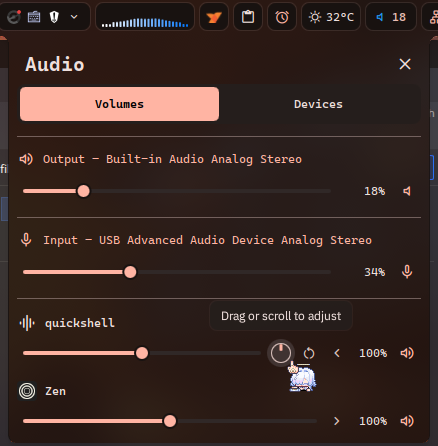
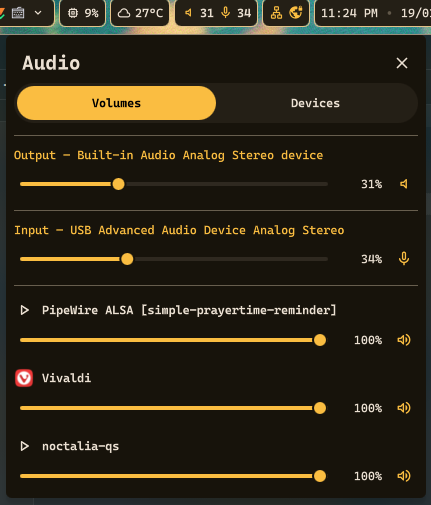
feat(SystemMonitorPlus): add disk partition usage monitoring
Adds diskPartitionUsage resource that fetches mount data from dgop disk --json
and tracks usage percentage for a selected partition.

Settings:
- New "Disk" tab with partition selector dropdown
- Mount point options populated from dgop disk init
- Default thresholds at 80% warning / 90% danger

Widget:
- Displays disk usage percentage on pill
- Popout shows all mount points with used/available/percent
- Periodic 5s refresh via dgop process

diff --git a/SystemMonitorPlus/SystemMonitorPlusWidget.qml b/SystemMonitorPlus/SystemMonitorPlusWidget.qml
@@ -1,5 +1,6 @@
 import QtQuick
 import Quickshell
+import Quickshell.Io
 import qs.Common
 import qs.Modules.Plugins
 import qs.Services
@@ -11,20 +12,26 @@ PluginComponent {
     pluginId: "systemMonitorPlus"
     layerNamespacePlugin: "system-monitor-plus"
 
-    readonly property var allResourceKeys: ["cpuUsage", "cpuTemp", "ramUsage", "gpuTemp"]
+    readonly property var allResourceKeys: ["cpuUsage", "cpuTemp", "ramUsage", "gpuTemp", "diskPartitionUsage"]
     readonly property var enabledResources: visibleResources()
     readonly property string primaryResource: enabledResources.length > 0 ? enabledResources[0] : "cpuUsage"
     readonly property string resourceSignature: JSON.stringify(enabledResources) + "|" + gpuSubscriptionSignature()
 
     property var _trackedModules: []
     property var _trackedGpuPciIds: []
+    property var _parsedDiskMounts: []
+    property real _parsedDiskMountsPercent: -1
 
     pillRightClickAction: rightClickSettingsEnabled() ? (() => {
         PopoutService.openSettingsWithTab("plugins");
     }) : null
 
     pillClickAction: () => {
-        openProcessList();
+        if (primaryResource === "diskPartitionUsage") {
+            pluginPopout.toggle();
+        } else {
+            openProcessList();
+        }
     }
 
     function pluginValue(key, fallback) {
@@ -86,6 +93,19 @@ PluginComponent {
                 "maxValue": 100,
                 "warning": 65,
                 "danger": 80,
+                "precision": 0
+            };
+        case "diskPartitionUsage":
+            return {
+                "label": "Disk Usage",
+                "icon": "sd_storage",
+                "module": "disk",
+                "sortKey": "cpu",
+                "placeholder": "--%",
+                "unit": "%",
+                "maxValue": 100,
+                "warning": 80,
+                "danger": 90,
                 "precision": 0
             };
         case "cpuUsage":
@@ -158,6 +178,8 @@ PluginComponent {
             return DgopService.memoryUsage;
         case "gpuTemp":
             return gpu ? (gpu.temperature || 0) : 0;
+        case "diskPartitionUsage":
+            return _parsedDiskMountsPercent >= 0 ? _parsedDiskMountsPercent : 0;
         case "cpuUsage":
         default:
             return DgopService.cpuUsage;
@@ -167,6 +189,8 @@ PluginComponent {
     function hasValue(resourceKey) {
         if (resourceKey === "gpuTemp")
             return resolveSelectedGpu(resourceKey) !== null;
+        if (resourceKey === "diskPartitionUsage")
+            return _parsedDiskMountsPercent >= 0;
         const value = currentValue(resourceKey);
         return value !== undefined && value !== null;
     }
@@ -228,6 +252,8 @@ PluginComponent {
             return formatRamValue(verticalCompact);
         if (!hasValue(resourceKey))
             return meta.placeholder;
+        if (resourceKey === "diskPartitionUsage")
+            return Number(_parsedDiskMountsPercent).toFixed(meta.precision) + meta.unit;
         const value = currentValue(resourceKey);
         if (resourceKey === "cpuTemp" || resourceKey === "gpuTemp")
             return Math.round(value).toString() + meta.unit;
@@ -437,12 +463,95 @@ PluginComponent {
 
     onResourceSignatureChanged: Qt.callLater(syncDgopSubscriptions)
 
+    Process {
+        id: diskFetchProcess
+        command: ["dgop", "disk", "--json"]
+        stdout: SplitParser {
+            onRead: function(data) {
+                try {
+                    const parsed = JSON.parse(data.trim());
+                    const mounts = parsed.mounts || [];
+                    if (Array.isArray(mounts)) {
+                        root._parsedDiskMounts = mounts;
+                        const mountPoint = String(root.pluginValue("diskPartitionUsageMount", "/"));
+                        const match = mounts.find(m => m.mount === mountPoint);
+                        root._parsedDiskMountsPercent = match ? parseInt(match.percent, 10) : -1;
+                    }
+                } catch (e) {
+                    root._parsedDiskMounts = [];
+                    root._parsedDiskMountsPercent = -1;
+                }
+            }
+        }
+    }
+
+    Timer {
+        id: diskFetchTimer
+        interval: 5000
+        running: root.enabledResources.indexOf("diskPartitionUsage") > -1
+        repeat: true
+        onTriggered: diskFetchProcess.running = true
+        onRunningChanged: {
+            if (!running) {
+                root._parsedDiskMounts = [];
+                root._parsedDiskMountsPercent = -1;
+            }
+        }
+    }
+
     Component.onCompleted: {
         syncDgopSubscriptions();
+        if (enabledResources.indexOf("diskPartitionUsage") > -1)
+            diskFetchProcess.running = true;
     }
 
     Component.onDestruction: {
         cleanupDgopSubscriptions();
+    }
+
+    popoutContent: Component {
+        Column {
+            width: root.popoutWidth
+            spacing: Theme.spacingS
+
+            Repeater {
+                model: _parsedDiskMounts
+                delegate: Row {
+                    width: parent.width
+                    height: 32
+                    spacing: Theme.spacingM
+
+                    StyledText {
+                        text: modelData.mount
+                        font.pixelSize: Theme.fontSizeMedium
+                        color: Theme.surfaceText
+                        width: 100
+                    }
+
+                    StyledText {
+                        text: modelData.size
+                        font.pixelSize: Theme.fontSizeMedium
+                        color: Theme.surfaceVariantText
+                        width: 90
+                    }
+
+                    StyledText {
+                        text: (modelData.used || "") + " / " + (modelData.avail || "")
+                        font.pixelSize: Theme.fontSizeMedium
+                        color: Theme.surfaceText
+                    }
+
+                    StyledText {
+                        text: modelData.percent
+                        font.pixelSize: Theme.fontSizeMedium
+                        horizontalAlignment: Text.AlignRight
+                        width: 50
+                        color: modelData.mount === String(pluginValue("diskPartitionUsageMount", "/")) ? Theme.primary : Theme.surfaceVariantText
+                        font.weight: modelData.mount === String(pluginValue("diskPartitionUsageMount", "/")) ? Font.Bold : Font.Normal
+                    }
+                }
+            }
+        }
     }
 
     horizontalBarPill: Component {

diff --git a/SystemMonitorPlus/SystemMonitorPlusSettings.qml b/SystemMonitorPlus/SystemMonitorPlusSettings.qml
@@ -1,4 +1,6 @@
 import QtQuick
+import Quickshell
+import Quickshell.Io
 import QtQuick.Layouts
 import qs.Common
 import qs.Modules.Plugins
@@ -12,7 +14,7 @@ PluginSettings {
     property int currentTab: 0
     property bool resourceCardActive: true
 
-    readonly property var allResourceKeys: ["cpuUsage", "cpuTemp", "ramUsage", "gpuTemp"]
+    readonly property var allResourceKeys: ["cpuUsage", "cpuTemp", "ramUsage", "gpuTemp", "diskPartitionUsage"]
     readonly property var colorOptions: [
         {
             "label": "Widget Text",
@@ -136,6 +138,8 @@ PluginSettings {
             return "RAM Usage";
         case "gpuTemp":
             return "GPU Temperature";
+        case "diskPartitionUsage":
+            return "Disk Usage";
         case "cpuUsage":
         default:
             return "CPU Usage";
@@ -150,6 +154,8 @@ PluginSettings {
             return "Monitor memory usage from DgopService.";
         case "gpuTemp":
             return "Monitor GPU temperature from DgopService for a selected GPU.";
+        case "diskPartitionUsage":
+            return "Monitor disk partition usage from dgop.";
         case "cpuUsage":
         default:
             return "Monitor CPU load from DgopService.";
@@ -164,6 +170,8 @@ PluginSettings {
             return "developer_board";
         case "gpuTemp":
             return "auto_awesome_mosaic";
+        case "diskPartitionUsage":
+            return "sd_storage";
         case "cpuUsage":
         default:
             return "memory";
@@ -178,6 +186,8 @@ PluginSettings {
             return 75;
         case "gpuTemp":
             return 65;
+        case "diskPartitionUsage":
+            return 80;
         case "cpuUsage":
         default:
             return 60;
@@ -192,6 +202,8 @@ PluginSettings {
             return 90;
         case "gpuTemp":
             return 80;
+        case "diskPartitionUsage":
+            return 90;
         case "cpuUsage":
         default:
             return 80;
@@ -209,6 +221,45 @@ PluginSettings {
             });
         }
         return items;
+    }
+
+    Process {
+        id: diskMountsProcess
+        command: ["dgop", "disk", "--json"]
+        onExited: exitCode => {
+            if (exitCode !== 0) {
+                ToastService.showError("Disk init process failed with exit code:", exitCode);
+            }
+        }
+        stdout: StdioCollector {
+            onStreamFinished: {
+                if (text.trim()) {
+                    try {
+                        const data = JSON.parse(text.trim());
+                        _diskMounts = data.mounts || [];
+                    } catch (e) {
+                        ToastService.showError("Failed to parse disk init JSON:", e);
+                    }
+                }
+            }
+        }
+    }
+
+    function refreshDiskMounts() {
+        _diskMounts = [];
+        diskMountsProcess.running = true;
+    }
+
+    property var _diskMounts: []
+    function diskMountOptions(resourceKey) {
+        if (_diskMounts.length === 0)
+            return [];
+        return _diskMounts.map(m => ({
+            label: m.mount + " (" + m.size + ")",
+            value: m.mount
+        }));
+
+        // return [{label: "/", value: "/"},{label: "/home", value: "/home"}];
     }
 
     function resourceIsGpu(key) {
@@ -309,6 +360,8 @@ PluginSettings {
             return "ramUsage";
         case 4:
             return "gpuTemp";
+        case 5:
+            return "diskPartitionUsage";
         default:
             return "";
         }
@@ -320,11 +373,17 @@ PluginSettings {
             Qt.callLater(() => refreshSettingsUi());
             if (currentTab > 0)
                 rebuildResourceCard();
+            if (currentTab === 5)
+                refreshDiskMounts();
         }
     }
     onCurrentTabChanged: {
         if (currentTab > 0)
             rebuildResourceCard();
+        if (currentTab === 5)
+            ToastService.showInfo(388);
+            diskMountsProcess.running = true;
+            refreshDiskMounts();
     }
 
     Connections {
@@ -893,6 +952,15 @@ PluginSettings {
             defaultValue: root.gpuOptions().length > 0 ? root.gpuOptions()[0].value : ""
         }
 
+        InlineSelectionSetting {
+            visible: resourceKey === "diskPartitionUsage"
+            settingKey: resourceKey + "Mount"
+            label: "Partition"
+            description: "Choose which partition to monitor"
+            options: root.diskMountOptions(resourceKey)
+            defaultValue: "/"
+        }
+
         StyledText {
             visible: root.resourceIsGpu(resourceKey) && root.gpuOptions().length === 0
             width: parent.width
@@ -1052,6 +1120,10 @@ PluginSettings {
                 {
                     "text": "GPU Temp",
                     "icon": "thermostat"
+                },
+                {
+                    "text": "Disk",
+                    "icon": "sd_storage"
                 }
             ]
 
